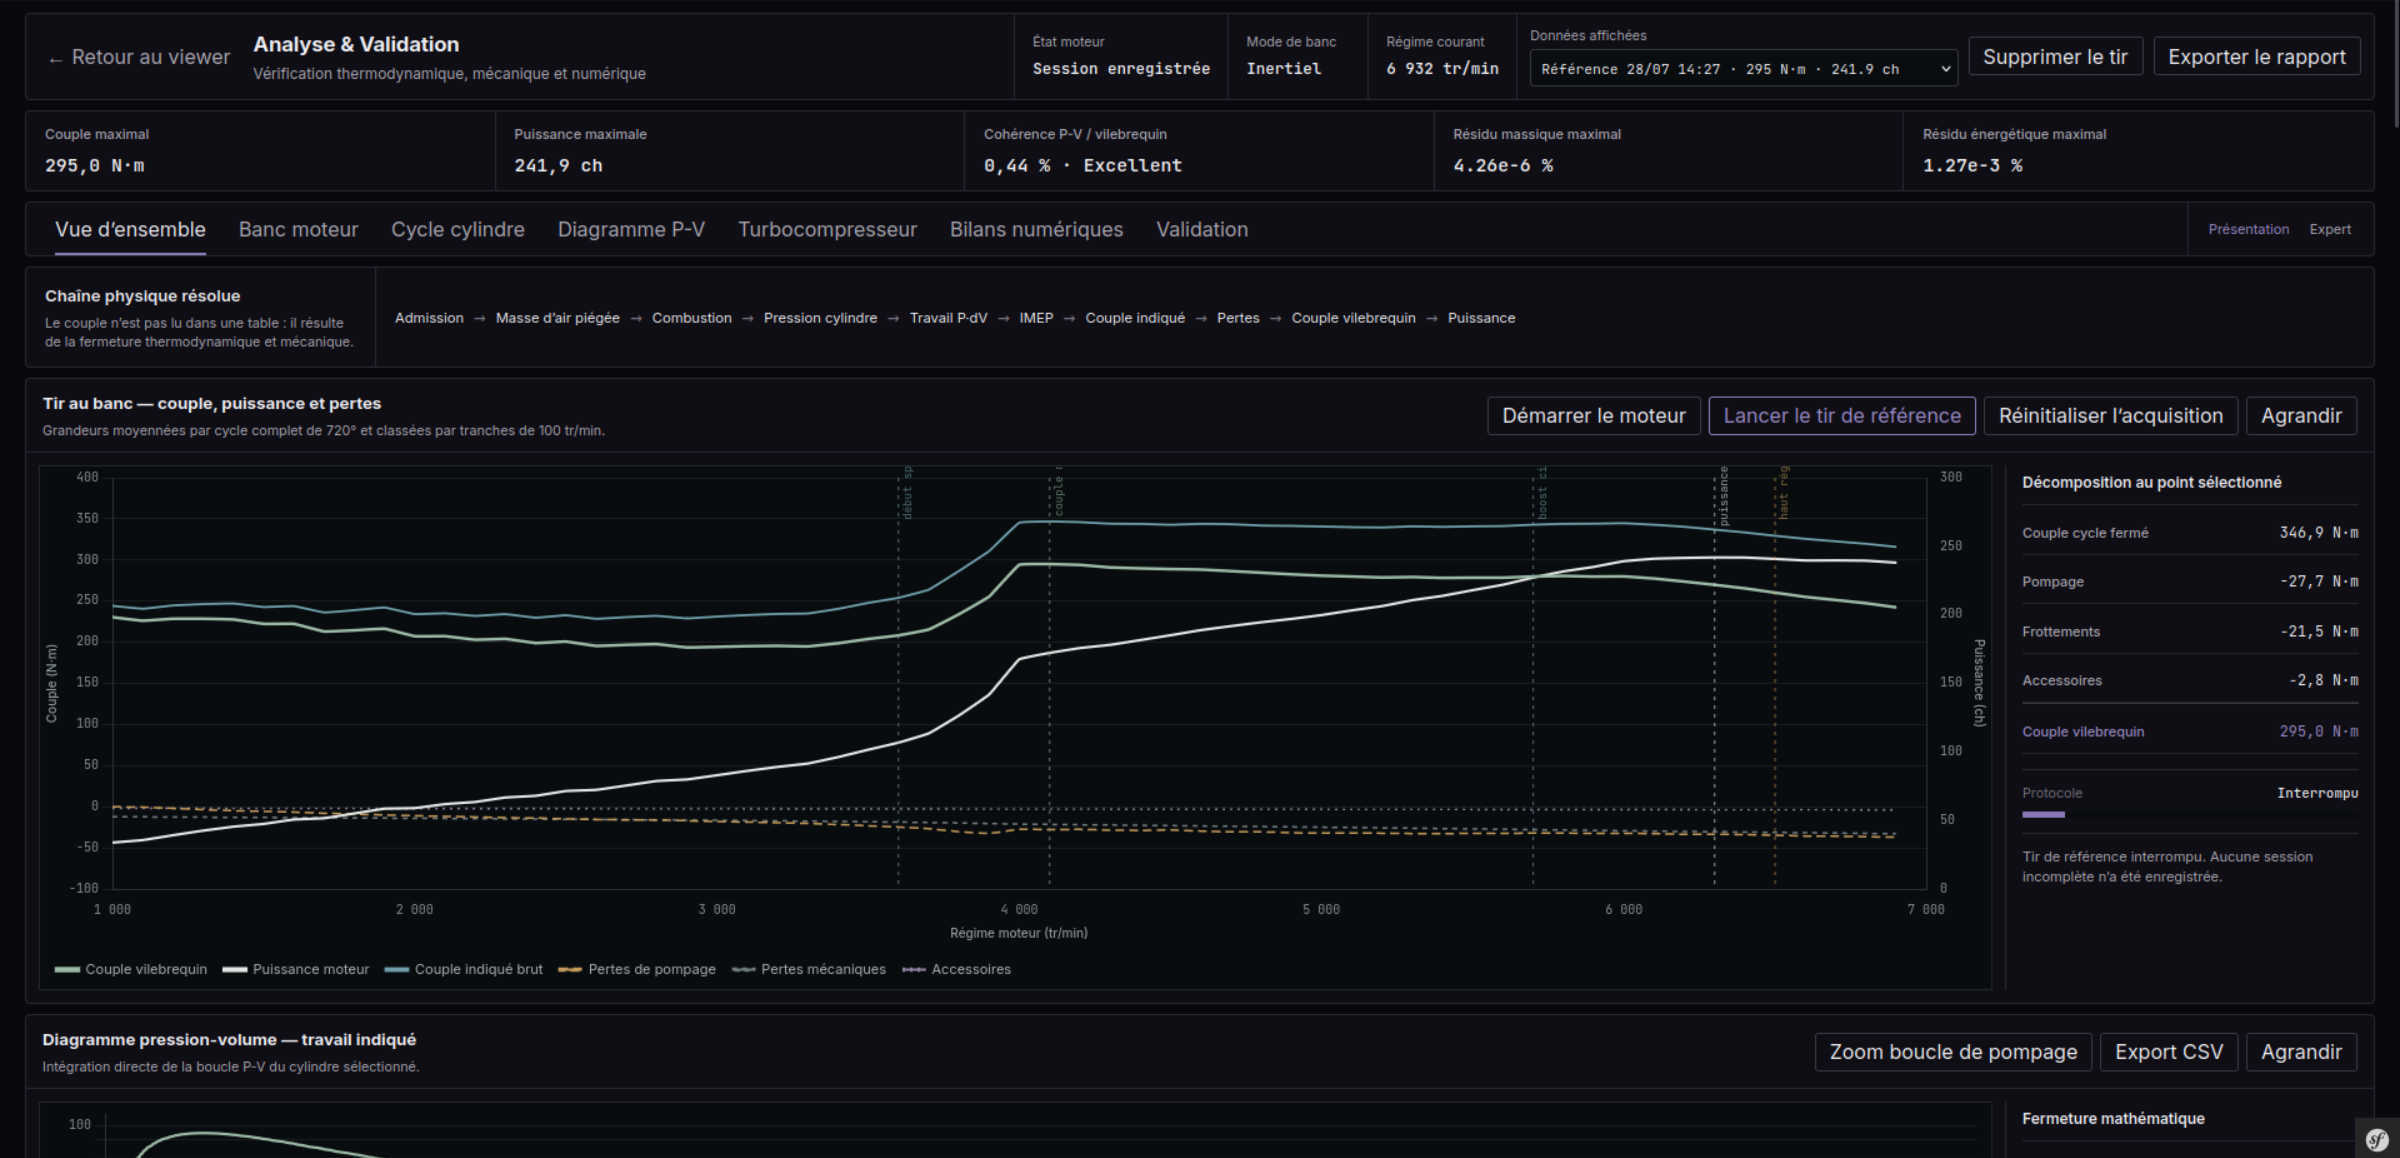
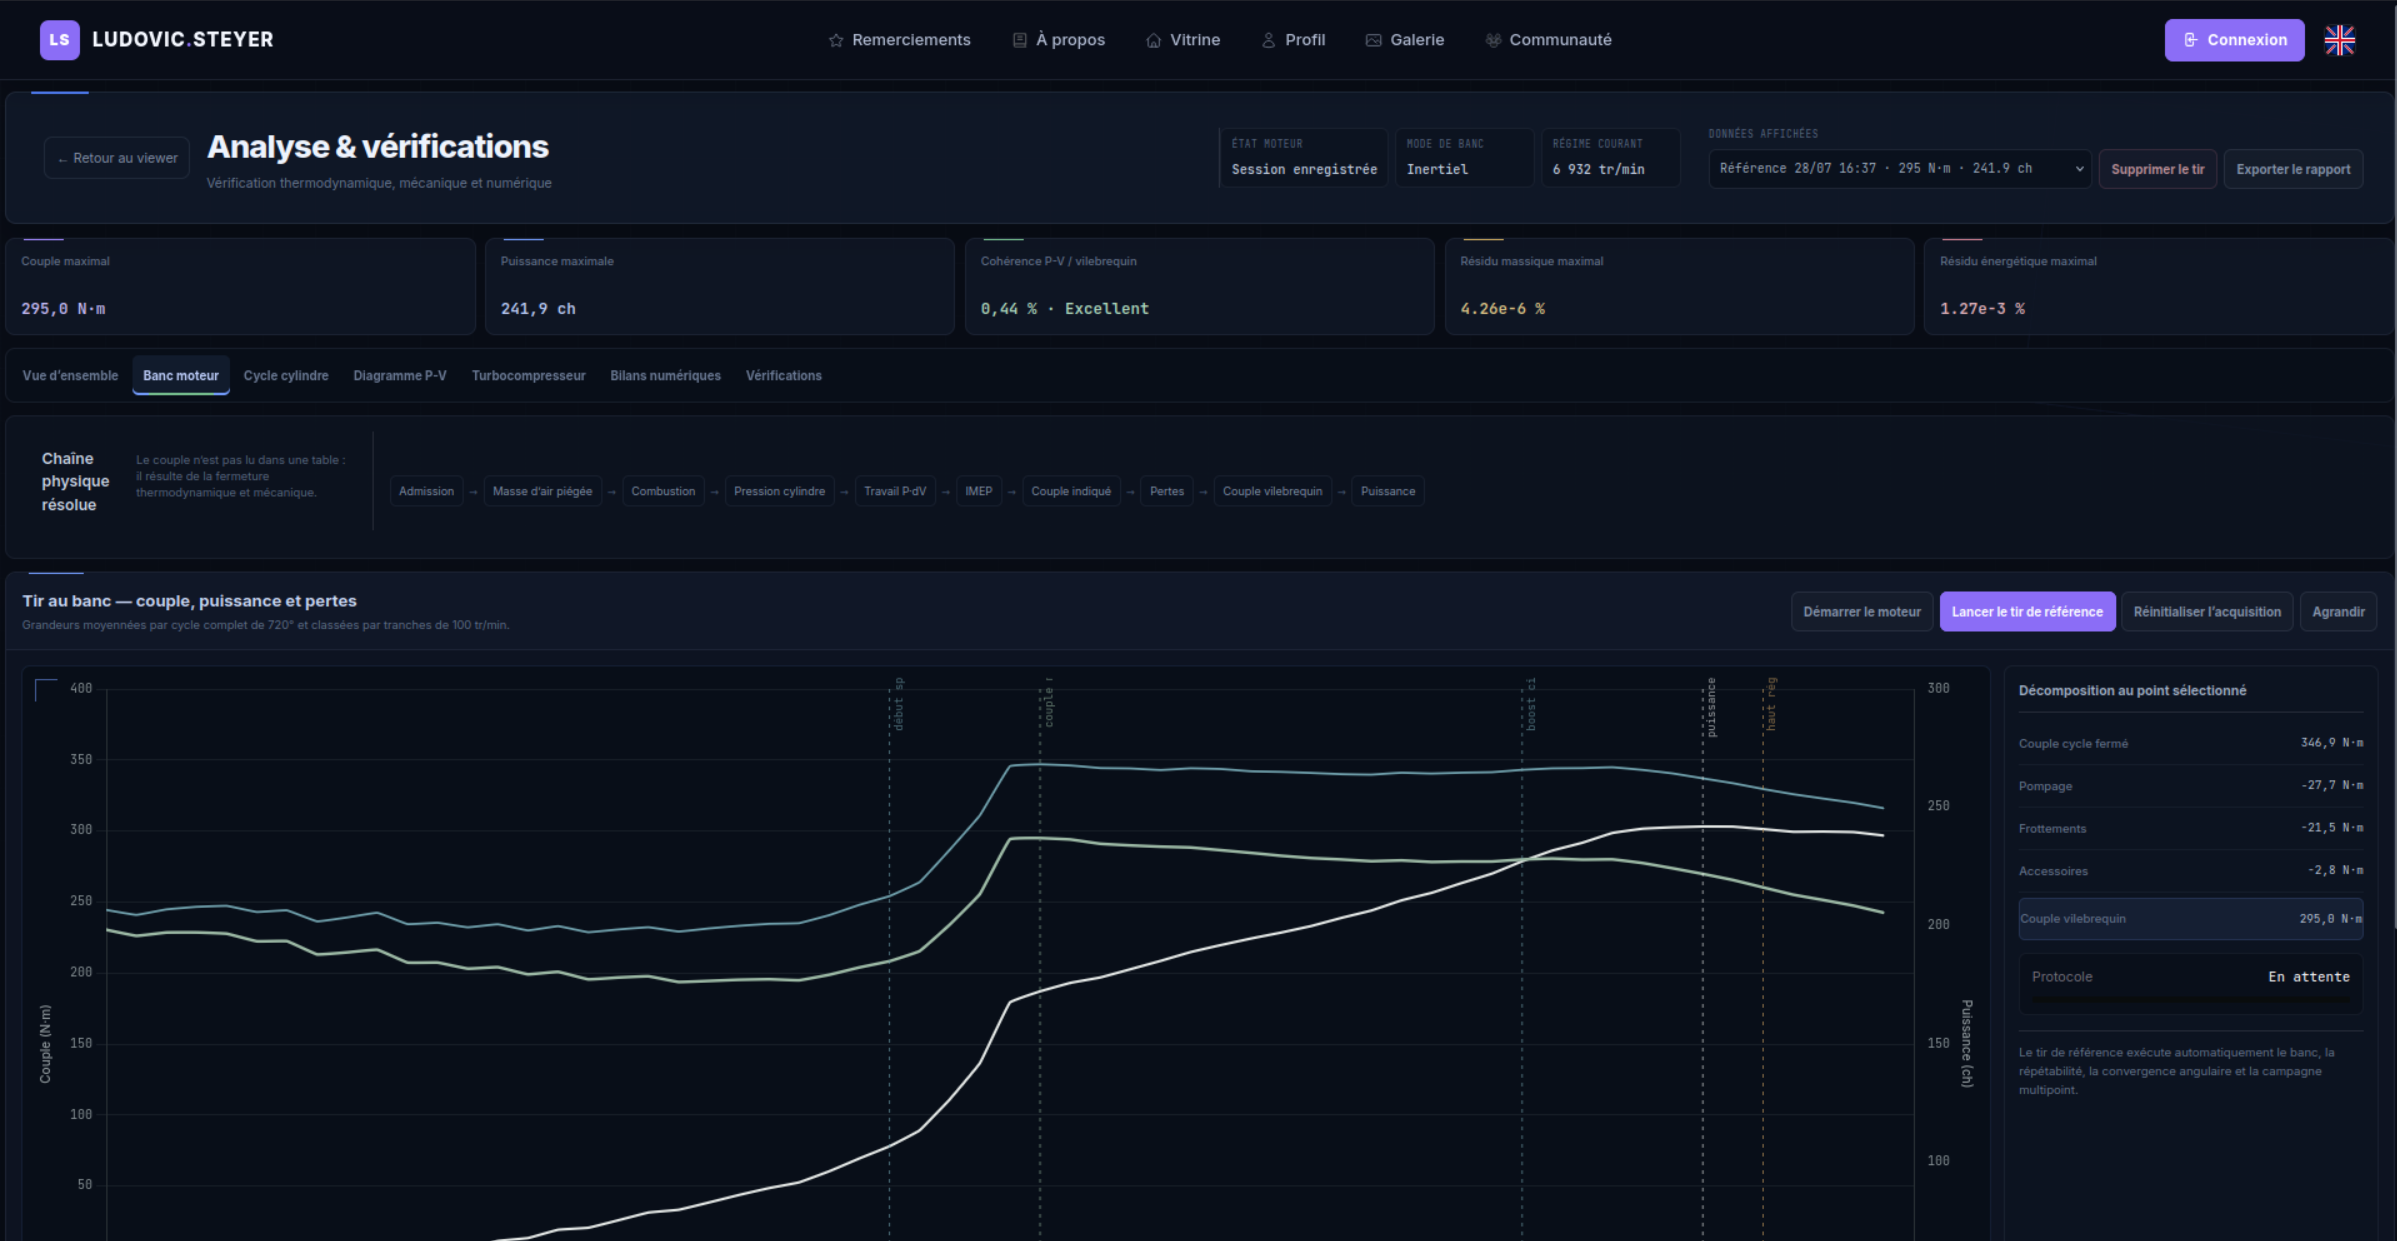
docs: updated preview with new visuals

diff --git a/README.md b/README.md
@@ -14,9 +14,7 @@ Projet personnel conçu, intégré et vérifié par **Ludovic Steyer**.
 
 ## Aperçu
 
-
-
-![Viewer moteur](docs/images/viewer.png)
+![Alt Text](docs/images/demo.gif)
 
 ![Analyse et validation](docs/images/analysis.png)
 
